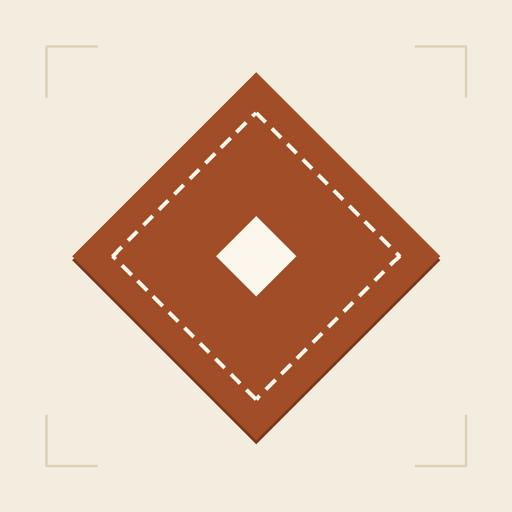
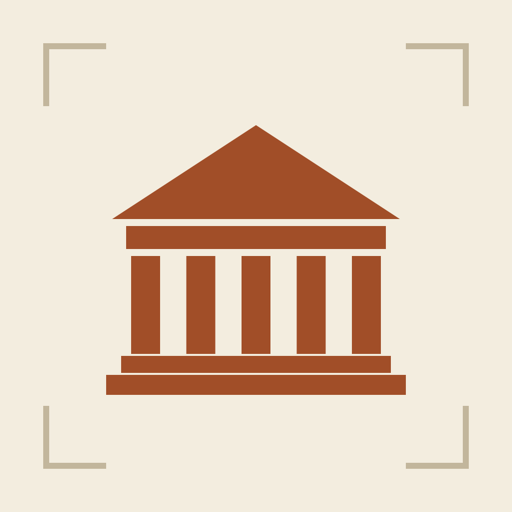
docs(play): 刷新 Play 商店图标资产，跟 7/11 改版对齐 (#391)
* docs(play): 刷新 Play 商店图标资产,跟 7/11 改版对齐

`docs/play-assets/icon_512.png` 还是 6/15 warm-paper 版的"菱形徽章"图标,
而 App 实际图标 7/11(#230)已改成"希腊神庙"(三角山花+柱列+台基)——
两版设计完全不同,只是配色相近容易被忽略,用户实测对比商店后台截图才发现。

从当前源图 `assets/icon/app_icon.png`(1024×1024,7/11 改版后的版本)
用 sips 导出 512×512,符合 Play 图标规格(PNG/≤1MB)。

⚠ 只改了图标,商店截图(shot_1~4)仍是旧 UI,需要单独重新截取——
那个改动更大(要在设备上重新走一遍取景/探索/馆藏/讲解四个页面),
不在这次范围内。

Claude-Session: https://claude.ai/code/session_01EQgJmCjbBm5Z2hmZMXmurZ

* docs(play): 存档 ASO 调研定稿的商店文案(en-US/fr-FR)+App Store关键词草稿

fork 调研(2026-08-26)发现:"audio guide"这个词族被 izi.TRAVEL(300万+下载)/
Bloomberg Connects/GuidiGO 占满,且它们都不做拍照识别;差异化应打
"scan/instant recognition"——竞品基本没占。原稿只提了 Louvre&Orsay 两馆,
现在四馆全名点齐(长尾词优势)。

存成文件而非只留在对话记录里,避免下次开新会话时这份调研成果丢失,
也方便以后加其余8种语言时直接照这个结构走(关键词策略可复用,
只是翻译+各语言轻量关键词核对,不用重新跑一次完整调研)。

App Store 关键词草稿留档但未提交——当前只有 Play 上线,无 iOS 商店条目。

Claude-Session: https://claude.ai/code/session_01EQgJmCjbBm5Z2hmZMXmurZ

---------

diff --git a/docs/play-assets/store-listing/fr-FR.md b/docs/play-assets/store-listing/fr-FR.md
@@ -1,0 +1,35 @@
+# Google Play Store Listing — Français (France)
+
+Même stratégie ASO que la version anglaise (voir en-US.md) : différenciation
+sur "scan / reconnaissance instantanée" plutôt que "guide audio" (catégorie
+saturée par izi.TRAVEL, Bloomberg Connects, GuidiGO).
+
+## Nom de l'application
+GoMuseum
+
+## Description courte (≤80 caractères)
+Photographiez une œuvre au Louvre ou à Orsay pour un guide audio instantané.
+
+## Description complète
+GoMuseum transforme votre téléphone en guide d'art instantané pour le Louvre, le Musée d'Orsay, le Musée de l'Orangerie et le Petit Palais.
+
+Photographiez un tableau, une sculpture ou un objet : GoMuseum le reconnaît en quelques secondes et vous en raconte l'histoire dans un guide audio fondé sur des sources vérifiées — jamais inventé. Plus besoin de chercher sur un plan ou de scroller une page Wikipédia générique.
+
+SCANNEZ & ÉCOUTEZ
+• Reconnaissance instantanée des œuvres — une photo suffit
+• Guides audio générés par IA, fondés sur des faits vérifiés
+• Guides texte complets pour des milliers d'œuvres dans les quatre musées
+• Disponible en 9 langues : français, anglais, allemand, espagnol, italien, polonais, japonais, coréen, chinois
+
+EXPLOREZ LIBREMENT
+• Recherchez une collection par nom d'œuvre ou d'artiste
+• Aucun compte requis — commencez en tant qu'invité
+• Vos 5 premières reconnaissances et votre premier guide audio sont gratuits
+
+PASS VILLE PARIS
+Un seul pass débloque scans et audio illimités au Louvre, à Orsay, à l'Orangerie et au Petit Palais pour toute votre visite.
+
+VIE PRIVÉE
+Vos photos ne servent qu'à identifier l'œuvre devant vous. Nous ne stockons ni ne téléversons jamais vos images originales.
+
+Une heure avant votre train ou une journée entière à flâner : GoMuseum est le guide de musée qui s'adapte à l'endroit exact où vous vous trouvez.

diff --git a/docs/play-assets/store-listing/en-US.md b/docs/play-assets/store-listing/en-US.md
@@ -1,0 +1,36 @@
+# Google Play Store Listing — English (US)
+
+Researched via ASO fork (2026-08-26): competitor analysis found "audio guide"
+category saturated by izi.TRAVEL (3M+ downloads), Bloomberg Connects,
+GuidiGO — none of them do photo recognition. Positioning shifted to
+"scan / instant recognition", which is largely unclaimed.
+
+## App name
+GoMuseum
+
+## Short description (≤80 chars, currently 69)
+Scan artwork at the Louvre & Orsay for an instant museum audio guide.
+
+## Full description
+GoMuseum turns your phone into an instant art guide for the Louvre, Musée d'Orsay, Musée de l'Orangerie and Petit Palais.
+
+Point your camera at any painting, sculpture or object — GoMuseum recognizes it in seconds and narrates its story with a grounded, fact-checked audio guide. No searching museum maps, no scrolling through generic Wikipedia pages.
+
+SCAN & LISTEN
+• Instant artwork recognition — just take a photo
+• AI-narrated audio guides, grounded in real sources, never invented
+• Full text guides for thousands of works across all four museums
+• Works in 9 languages: English, French, German, Spanish, Italian, Polish, Japanese, Korean, Chinese
+
+EXPLORE FREELY
+• Search any museum's collection by name or artist
+• No account needed — start as a guest
+• Your first 5 artwork scans and your first audio guide are free
+
+PARIS CITY PASS
+One pass unlocks unlimited scans and audio across the Louvre, Orsay, Orangerie and Petit Palais for your whole visit.
+
+PRIVACY FIRST
+Photos are used only to recognize the artwork in front of you. We never store or upload your original images.
+
+Whether you have an hour before your train or a full day to wander, GoMuseum is the museum guide that meets you exactly where you're standing.

diff --git a/docs/play-assets/store-listing/app-store-keywords-draft.md b/docs/play-assets/store-listing/app-store-keywords-draft.md
@@ -1,0 +1,12 @@
+# App Store keyword field (draft, not yet submitted — no iOS listing live)
+
+Assumes title="GoMuseum", subtitle="Louvre & Paris Art Guide" (covers
+louvre/paris/art/guide already, so the keyword field below avoids repeating
+them — Apple indexes title+subtitle+keyword field as one set).
+
+```
+orsay,orangerie,petitpalais,museum,scan,painting,artwork,recognition,sculpture,audio,tour,exhibit,culture,france
+```
+
+No spaces after commas (Apple format requirement). Verify exact char count
+(cap 100) in App Store Connect's own counter before submitting.
